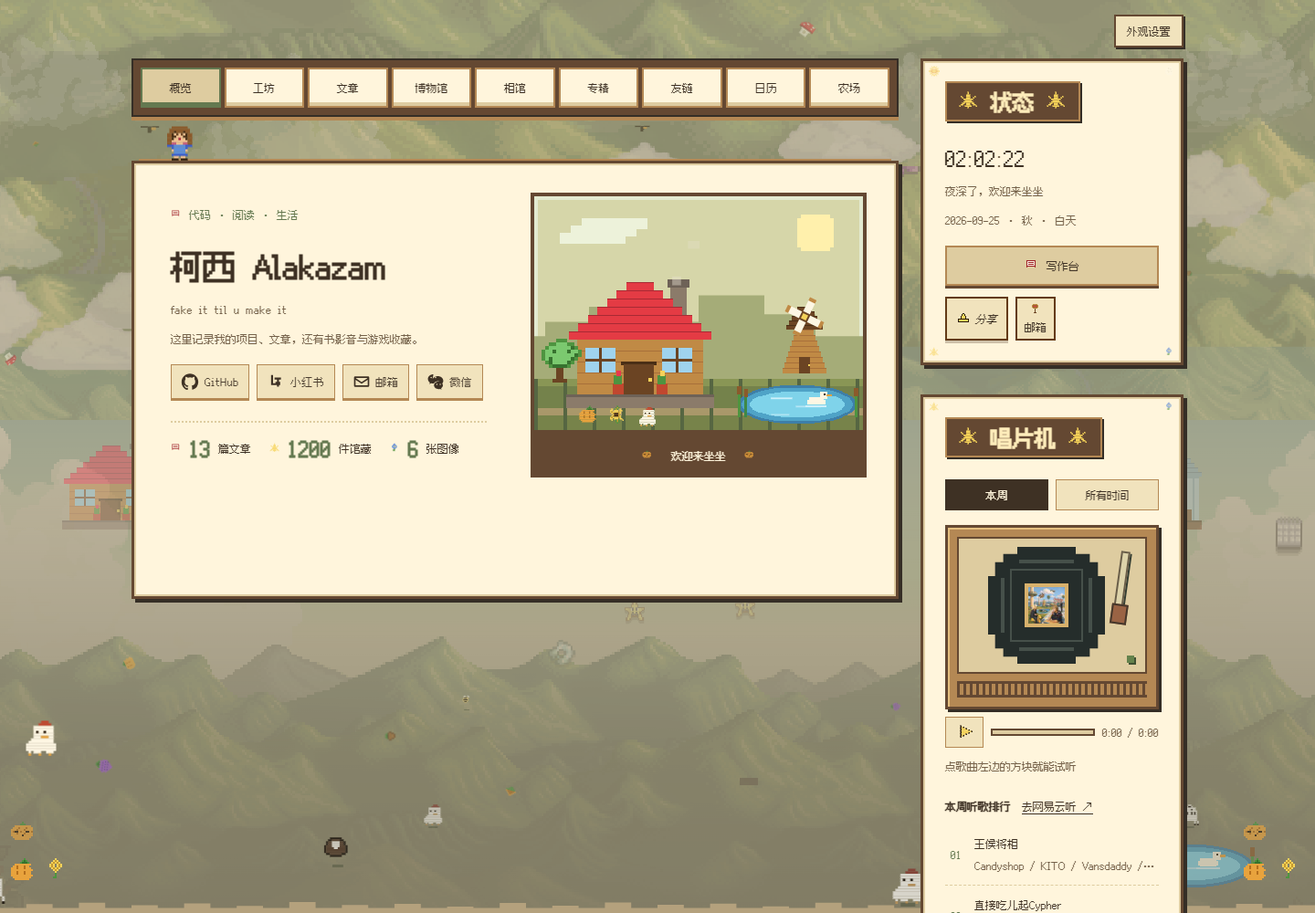
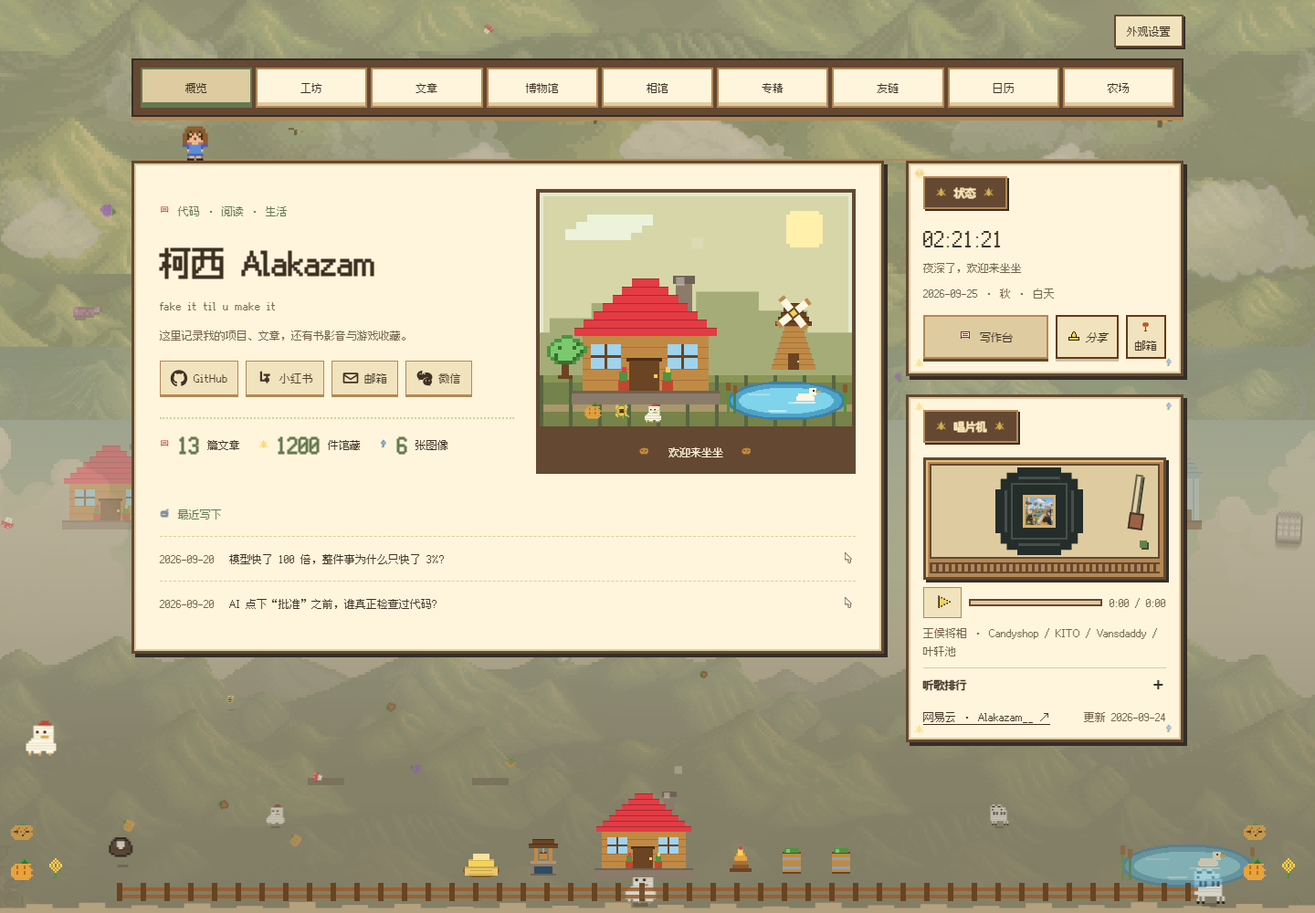
配平主页排版，将农场变为自动年度收获并收起完整听歌排行

diff --git a/build/music.js b/build/music.js
@@ -10,45 +10,54 @@ const labels = { week: '本周', all: '所有时间' };
      免登录、免密钥、不含糊 —— 浏览器自己跟随 302 到 126 的 CDN。缺点是
      受版权限制的部分歌曲取不到音频，这时按失败处理，落到网易云的页面去。） */
 function rows(tracks) {
-  return tracks.map(track => `<li class="music-row"><button type="button" class="music-play" data-music-play="${esc(track.id)}" aria-label="试听 ${esc(track.title)}"><span class="music-rank">${track.rank.toString().padStart(2, '0')}</span><svg class="ic music-ic music-ic-play" viewBox="0 0 16 16" aria-hidden="true"><use href="#px-play"></use></svg><svg class="ic music-ic music-ic-pause" viewBox="0 0 16 16" aria-hidden="true"><use href="#px-pause"></use></svg></button><a href="${esc(track.url)}" target="_blank" rel="noopener noreferrer"><span class="music-track"><b>${esc(track.title)}</b><small>${esc(track.artist)}</small></span></a></li>`).join('');
+  return tracks.map(track => `<li class="music-row"><button type="button" class="music-play" data-music-play="${esc(track.id)}" aria-label="试听 ${esc(track.title)}"><span class="music-rank">${track.rank.toString().padStart(2, '0')}</span><svg class="ic music-ic music-ic-play" viewBox="0 0 16 16" aria-hidden="true"><use href="#px-play"></use></svg><svg class="ic music-ic music-ic-pause" viewBox="0 0 16 16" aria-hidden="true"><use href="#px-pause"></use></svg></button><a href="${esc(track.url)}" title="${esc(track.title + ' · ' + track.artist)}" target="_blank" rel="noopener noreferrer"><span class="music-track"><b>${esc(track.title)}</b><small>${esc(track.artist)}</small></span></a></li>`).join('');
 }
 
 function render() {
   const data = JSON.parse(fs.readFileSync(path.join(__dirname, 'data/netease.json'), 'utf8'));
   const first = data.week[0];
-  return `<div class="music-tabs" role="group" aria-label="音乐收藏与排行">${Object.entries(labels).map(([key, label]) => `<button type="button" data-music-period="${key}" aria-pressed="${key === 'week'}">${label}</button>`).join('')}</div>
-  <div class="record-player" aria-hidden="true"><div class="record-deck"><div class="record-disc"><img class="record-label" ${first ? 'src="' + esc(first.cover + '?param=96y96') + '"' : ''} width="48" height="48" alt="" referrerpolicy="no-referrer" ${first ? '' : 'hidden'}></div><i class="record-arm"></i><i class="record-light"></i></div><div class="record-speaker"></div></div>
+  return `<div class="record-player" aria-hidden="true"><div class="record-deck"><div class="record-disc"><img class="record-label" ${first ? 'src="' + esc(first.cover + '?param=96y96') + '"' : ''} width="36" height="36" alt="" referrerpolicy="no-referrer" ${first ? '' : 'hidden'}></div><i class="record-arm"></i><i class="record-light"></i></div><div class="record-speaker"></div></div>
   <div class="music-bar" role="group" aria-label="试听控制"><button type="button" class="music-transport" data-music-toggle aria-label="播放${first ? ' ' + esc(first.title) : ''}"><svg class="ic music-ic music-ic-play" viewBox="0 0 16 16" aria-hidden="true"><use href="#px-play"></use></svg><svg class="ic music-ic music-ic-pause" viewBox="0 0 16 16" aria-hidden="true"><use href="#px-pause"></use></svg></button><span class="music-seek" data-music-seek aria-hidden="true"><span class="music-seek-fill" data-music-fill></span></span><span class="music-time" data-music-time>0:00 / 0:00</span></div>
-  <p class="music-now" role="status" aria-live="polite">点歌曲左边的方块就能试听</p>
+  <p class="music-now" role="status" aria-live="polite">${first ? esc(first.title + ' · ' + first.artist) : '还没有听歌记录'}</p>
+  <details class="music-ranking"><summary>听歌排行<span aria-hidden="true">＋</span></summary>
+  <div class="music-tabs" role="group" aria-label="音乐收藏与排行">${Object.entries(labels).map(([key, label]) => `<button type="button" data-music-period="${key}" aria-pressed="${key === 'week'}">${label}</button>`).join('')}</div>
   <p class="music-selection"><span data-music-heading>本周听歌排行</span><a class="music-listen" href="${first ? esc(first.url) : 'https://music.163.com/#/user/home?id=' + data.uid}" target="_blank" rel="noopener noreferrer">去网易云听 ↗</a></p>
   <ol class="music-list">${rows(data.week.slice(0, 5))}</ol><p class="music-empty" ${data.week.length ? 'hidden' : ''}>这段时间还没有听歌记录。</p>
-  <div class="music-pager"><button type="button" data-music-prev aria-label="上一页听歌排行" disabled>上一页</button><span data-music-page role="status" aria-live="polite">${data.week.length ? '1–' + Math.min(5, data.week.length) : '0'} / ${data.week.length}</span><button type="button" data-music-next aria-label="下一页听歌排行" ${data.week.length <= 5 ? 'disabled' : ''}>下一页</button></div>
+  <div class="music-pager"><button type="button" data-music-prev aria-label="上一页听歌排行" disabled>上一页</button><span data-music-page role="status" aria-live="polite">${data.week.length ? '1–' + Math.min(5, data.week.length) : '0'} / ${data.week.length}</span><button type="button" data-music-next aria-label="下一页听歌排行" ${data.week.length <= 5 ? 'disabled' : ''}>下一页</button></div></details>
   <p class="music-source"><a href="https://music.163.com/#/user/home?id=${data.uid}" target="_blank" rel="noopener noreferrer">网易云 · Alakazam__ ↗</a><span>更新 <time data-music-updated datetime="${esc(data.updatedAt)}">${esc(data.updatedAt.slice(0, 10))}</time></span></p>
   <script id="music-data" type="application/json">${safeJSON(data)}</script>`;
 }
 
 const css = `
-#music{scroll-margin-top:24px;font-size:12px;line-height:24px}
-.music-tabs{display:grid;grid-template-columns:repeat(auto-fit,minmax(64px,1fr));gap:8px;margin-bottom:16px}
-#music button:not([data-music-play]){font:inherit;line-height:24px;color:var(--ink);background:var(--cream-2);border:1px solid var(--timber-light);padding:4px 8px}
+#music{scroll-margin-top:24px;font-size:12px;line-height:20px}
+.music-tabs{display:grid;grid-template-columns:repeat(auto-fit,minmax(64px,1fr));gap:8px;margin:8px 0}
+#music button:not([data-music-play]){font:inherit;line-height:20px;color:var(--ink);background:var(--cream-2);border:1px solid var(--timber-light);padding:4px 8px}
 #music button[aria-pressed="true"]{background:var(--ink);color:var(--cream);border-color:var(--ink)}
 #music button:disabled{opacity:.4;cursor:default}#music button:active:not(:disabled){transform:translateY(2px)}
 #music a:focus-visible,#music button:focus-visible{outline:2px solid var(--moss);outline-offset:3px}
-.record-player{padding:10px;background:var(--timber-light);border:3px solid var(--timber);box-shadow:inset 2px 2px var(--timber-top),3px 3px var(--pixel-shadow)}
-.record-deck{height:150px;position:relative;background:var(--cream-3);border:2px solid var(--timber)}
-.record-disc{position:absolute;left:calc(50% - 70px);top:9px;width:128px;height:128px;background:#252d2b;clip-path:polygon(25% 0,75% 0,75% 6%,87% 6%,87% 13%,94% 13%,94% 25%,100% 25%,100% 75%,94% 75%,94% 87%,87% 87%,87% 94%,75% 94%,75% 100%,25% 100%,25% 94%,13% 94%,13% 87%,6% 87%,6% 75%,0 75%,0 25%,6% 25%,6% 13%,13% 13%,13% 6%,25% 6%)}
-.record-disc::before{content:'';position:absolute;inset:14px;border:4px solid #46504a;box-shadow:inset 0 0 0 6px #252d2b,inset 0 0 0 8px #46504a;clip-path:polygon(20% 0,80% 0,80% 8%,92% 8%,92% 20%,100% 20%,100% 80%,92% 80%,92% 92%,80% 92%,80% 100%,20% 100%,20% 92%,8% 92%,8% 80%,0 80%,0 20%,8% 20%,8% 8%,20% 8%)}
-.record-label{position:absolute;left:40px;top:40px;width:48px;height:48px;object-fit:contain;border:4px solid #d8b16c;image-rendering:auto}
-.record-arm{position:absolute;right:16px;top:14px;width:10px;height:74px;background:#ddd3aa;border:2px solid #695d48;transform:rotate(8deg);transform-origin:top center;box-shadow:2px 2px #333c31;transition:transform .6s steps(5,end)}
-.record-arm::after{content:'';position:absolute;bottom:-8px;left:-4px;width:14px;height:18px;background:#9a6344;border:2px solid #45372b}
+.record-player{padding:4px;background:var(--timber-light);border:3px solid var(--timber);box-shadow:inset 2px 2px var(--timber-top),3px 3px var(--pixel-shadow)}
+.record-deck{height:104px;position:relative;background:var(--cream-3);border:2px solid var(--timber)}
+.record-disc{position:absolute;left:calc(50% - 54px);top:2px;width:96px;height:96px;background:#252d2b;clip-path:polygon(25% 0,75% 0,75% 6%,87% 6%,87% 13%,94% 13%,94% 25%,100% 25%,100% 75%,94% 75%,94% 87%,87% 87%,87% 94%,75% 94%,75% 100%,25% 100%,25% 94%,13% 94%,13% 87%,6% 87%,6% 75%,0 75%,0 25%,6% 25%,6% 13%,13% 13%,13% 6%,25% 6%)}
+.record-disc::before{content:'';position:absolute;inset:10px;border:3px solid #46504a;box-shadow:inset 0 0 0 4px #252d2b,inset 0 0 0 6px #46504a;clip-path:polygon(20% 0,80% 0,80% 8%,92% 8%,92% 20%,100% 20%,100% 80%,92% 80%,92% 92%,80% 92%,80% 100%,20% 100%,20% 92%,8% 92%,8% 80%,0 80%,0 20%,8% 20%,8% 8%,20% 8%)}
+.record-label{position:absolute;left:30px;top:30px;width:36px;height:36px;object-fit:contain;border:3px solid #d8b16c;image-rendering:auto}
+.record-arm{position:absolute;right:16px;top:10px;width:8px;height:56px;background:#ddd3aa;border:2px solid #695d48;transform:rotate(8deg);transform-origin:top center;box-shadow:2px 2px #333c31;transition:transform .6s steps(5,end)}
+.record-arm::after{content:'';position:absolute;bottom:-6px;left:-3px;width:12px;height:14px;background:#9a6344;border:2px solid #45372b}
 .record-light{position:absolute;right:12px;bottom:10px;width:8px;height:8px;background:#64824c;box-shadow:2px 2px #3e5032}
 html[data-time="night"] .record-light{background:#efca6a;box-shadow:0 0 8px #efca6a}
-.record-speaker{height:18px;margin-top:8px;background:repeating-linear-gradient(90deg,var(--timber) 0 3px,transparent 3px 7px);border-top:3px solid var(--timber);border-bottom:3px solid var(--timber)}
-.music-selection{margin:20px 0 8px;display:flex;flex-wrap:wrap;align-items:center;gap:4px 12px}.music-selection>span{font-weight:bold}.music-listen{color:var(--ink);font-size:12px;text-underline-offset:3px}
+.record-speaker{height:12px;margin-top:4px;background:repeating-linear-gradient(90deg,var(--timber) 0 3px,transparent 3px 7px);border-top:2px solid var(--timber);border-bottom:2px solid var(--timber)}
+.music-ranking{margin-top:8px;border-top:1px solid var(--cream-3)}
+.music-ranking>summary{display:flex;align-items:center;justify-content:space-between;gap:8px;padding:8px 0;list-style:none;color:var(--ink);font-weight:bold}
+.music-ranking>summary::-webkit-details-marker{display:none}
+.music-ranking>summary span{font-size:16px;line-height:16px;transition:transform .18s ease}
+.music-ranking[open]>summary span{transform:rotate(45deg)}
+.music-ranking>summary:hover{color:var(--moss)}.music-ranking>summary:active{transform:translateY(1px)}
+.music-ranking>summary:focus-visible{outline:2px solid var(--moss);outline-offset:3px}
+@media(prefers-reduced-motion:reduce){.music-ranking>summary span{transition:none}}
+.music-selection{margin:8px 0 4px;display:flex;flex-wrap:wrap;align-items:center;justify-content:space-between;gap:4px 8px}.music-selection>span{font-weight:bold}.music-listen{color:var(--ink);font-size:12px;text-underline-offset:3px}
 .music-list{list-style:none;padding:0;margin:0}.music-row{display:grid;grid-template-columns:24px minmax(0,1fr);gap:8px;align-items:center;border-bottom:1px dashed var(--cream-3)}
 .music-row:hover{background:var(--cream-2)}
-.music-row a{display:block;padding:9px 0;text-decoration:none;color:var(--ink)}
-.music-rank{color:var(--moss)}.music-track{min-width:0}.music-track b{display:block;white-space:nowrap;overflow:hidden;text-overflow:ellipsis;font-weight:normal}.music-track small{display:block;font-size:12px;line-height:24px;color:var(--ink-2);white-space:nowrap;overflow:hidden;text-overflow:ellipsis}
+.music-row a{display:block;min-width:0;padding:8px 0;text-decoration:none;color:var(--ink)}
+.music-rank{color:var(--moss)}.music-track{display:grid;grid-template-columns:minmax(0,1fr) minmax(0,.65fr);gap:8px;min-width:0}.music-track b{display:block;white-space:nowrap;overflow:hidden;text-overflow:ellipsis;font-weight:normal}.music-track small{display:block;font-size:12px;line-height:20px;color:var(--ink-2);text-align:right;white-space:nowrap;overflow:hidden;text-overflow:ellipsis}
 /* ---- 序号格 = 试听键 ----
    ⚠⚠ 上面那条木牌按钮用 :not([data-music-play]) 排除了它 —— 但排除之后
    **浏览器默认的按钮样式**（灰底、2px outset 黑边、13.33px 字号）会顶上来，
@@ -85,9 +94,9 @@ html[data-time="night"] .record-light{background:#efca6a;box-shadow:0 0 8px #efc
 .record-deck.playing .record-arm{transform:rotate(25deg)}
 @keyframes mu-blink{50%{opacity:.15}}
 .record-deck.playing .record-light{animation:mu-blink 1s steps(2,end) infinite}
-.music-now{margin:8px 0 0;color:var(--ink-2)}
-.music-pager{display:flex;align-items:center;justify-content:space-between;gap:4px;margin-top:16px}.music-pager [data-music-page]{white-space:nowrap;font-variant-numeric:tabular-nums}
-.music-source{display:flex;flex-direction:column;gap:4px;margin:16px 0 0;color:var(--ink-2)}.music-source a{color:var(--ink);text-underline-offset:3px}.music-empty{margin:20px 0;color:var(--ink-2)}
+.music-now{margin:6px 0 0;color:var(--ink-2);line-height:20px}
+.music-pager{display:flex;align-items:center;justify-content:space-between;gap:4px;margin:8px 0}.music-pager [data-music-page]{white-space:nowrap;font-variant-numeric:tabular-nums}
+.music-source{display:flex;flex-wrap:wrap;justify-content:space-between;gap:2px 8px;margin:8px 0 0;color:var(--ink-2);line-height:18px}.music-source a{color:var(--ink);text-underline-offset:3px}.music-source>span{white-space:nowrap}.music-empty{margin:12px 0;color:var(--ink-2)}
 #music [hidden]{display:none!important}
 `;
 
@@ -133,7 +142,7 @@ function paint(){
   cover.src=currentTrack.cover+'?param=96y96';cover.hidden=false;
   now.textContent=(mode==='playing'?'正在放 · ':'暂停 · ')+currentTrack.title+' — '+currentTrack.artist;
  }else if(mode==='failed'){ now.textContent='这首没有在线音源，去网易云听 ↗'; }
- else{ now.textContent='点歌曲左边的方块就能试听'; }
+ else{ const first=data[period][page*5];now.textContent=first?first.title+' · '+first.artist:'还没有听歌记录'; }
 }
 function stop(){ audio.pause(); try{audio.removeAttribute('src');audio.load();}catch(e){} currentId=null;currentTrack=null;mode='';paint(); }
 function fail(){ if(mode==='loading'||mode==='playing'||mode==='paused'){mode='failed';paint();} }

diff --git a/build/farm-modules.js b/build/farm-modules.js
@@ -25,7 +25,18 @@ function collect(articles,gallery,douban){
 }
 function load(){const read=n=>{try{return JSON.parse(fs.readFileSync(path.join(__dirname,'data',n),'utf8'))}catch{return {}}};return collect(require('./content.js').articles(),read('gallery.json'),read('douban.json'));}
 function calendar(){return `<div class="calendar-date"><time id="calendar-date"></time><span id="calendar-weekday"></span></div><div class="seasons">${[['spring','parsnip','春'],['summer','melon','夏'],['autumn','pumpkin','秋'],['winter','snowman','冬']].map(([k,n,label])=>`<button type="button" class="se" data-se="${k}" data-set-season="${k}" aria-label="切换${label}季外观" aria-pressed="false">${icon(n)}<b>${label}</b></button>`).join('')}</div><p class="calendar-mode" id="calendar-mode"></p><button class="abtn calendar-auto" type="button" data-auto-season>恢复自动</button>`;}
-function harvest(data){return `<div class="harvest-heading"><label for="harvest-year">年度收获</label><select id="harvest-year" aria-label="收获年份"></select></div><div class="harvest-counts">${Object.entries(labels).map(([k,v])=>`<a data-harvest-kind="${k}" href="harvest/index.html?kind=${k}"><span>${icon(KIND_ICON[k])}${v}</span><b>0</b></a>`).join('')}</div><p class="harvest-note">随已发布内容更新${data.updatedAt?' · 书影音同步 '+esc(data.updatedAt.slice(0,10)):''}</p><script id="harvest-summary" type="application/json">${safeJSON(data.years)}</script>`;}
+function harvest(data){
+ const crops={article:'wheat',photo:'flower',movie:'film',book:'book'},units={article:'篇',photo:'张',movie:'部',book:'本'};
+ const recent=Object.keys(data.years).sort().reverse().map(year=>`<ul class="farm-recent-list" data-harvest-year="${year}" hidden>${data.items.filter(item=>item.year===year).slice(0,3).map(item=>`<li><span class="farm-recent-kind">${icon(KIND_ICON[item.kind])}${labels[item.kind]}</span><a href="${esc(item.url)}"${/^https:\/\//.test(item.url)?' target="_blank" rel="noopener"':''}>${esc(item.title)}</a><time datetime="${item.date}">${item.date.slice(5).replace('-',' / ')}</time></li>`).join('')}</ul>`).join('');
+ return `<div id="ledger" class="farm-harvest">
+  <p class="farm-harvest-intro">文章、真实照片和看完读完的书影会自动汇入这里，不用另外维护。</p>
+  <div class="harvest-heading"><label for="harvest-year">年度收获</label><select id="harvest-year" aria-label="收获年份"></select></div>
+  <div class="harvest-counts">${Object.entries(labels).map(([kind,label])=>`<a class="farm-plot" data-harvest-kind="${kind}" data-empty="true" href="harvest/index.html?kind=${kind}"><span class="farm-plot-label">${label}</span><span class="farm-plot-crop" aria-hidden="true">${icon(crops[kind])}</span><span class="farm-plot-total"><b>0</b><span>${units[kind]}</span></span><span class="farm-plot-note">暂无记录</span></a>`).join('')}</div>
+  <div class="farm-recent"><div class="farm-recent-heading"><h3>最近的收获</h3><a data-harvest-all href="harvest/index.html">查看这一年</a></div>${recent}<p class="farm-recent-empty">这一年还没有记录，新的生活片段会出现在这里。</p></div>
+  <p class="harvest-note">照片不含生成插画；书影按豆瓣标记日期归档。${data.updatedAt?'最近同步 '+esc(data.updatedAt.slice(0,10))+'。':''}</p>
+  <script id="harvest-summary" type="application/json">${safeJSON(data.years)}</script>
+ </div>`;
+}
 function scenery(){return `<div class="farm-edge-area"><div class="season-scenery" aria-hidden="true">${['left','right'].map(side=>`<div class="edge-plot ${side}"><span class="edge-lantern">${icon('lantern')}</span><span class="season-plants spring">${icon('tulip')}${icon('flower')}</span><span class="season-plants summer">${icon('sunflower')}${icon('melon')}</span><span class="season-plants autumn">${icon('pumpkin')}${icon('wheat')}</span><span class="season-plants winter">${icon('snowman')}<i class="snow-cap"></i></span></div>`).join('')}</div><div class="farm-pet"><button id="farm-pet" type="button" aria-label="摸摸小鸡">${icon('chicken')}</button><span class="pet-reply" role="status" aria-live="polite"></span></div></div>`;}
 function settings(){return `<label class="farm-option"><input type="checkbox" data-farm-option="pet" checked>农场小鸡</label><label class="farm-option"><input type="checkbox" data-farm-option="scenery" checked>季节景物</label>`;}
 const css=`
@@ -52,6 +63,23 @@ const css=`
 .harvest-list a svg.ic{display:inline-block;vertical-align:-4px;margin-right:5px}
 .harvest-list small{display:block;font-size:12px;line-height:24px;color:var(--tx-3)}
 .harvest-list [hidden],.harvest-empty[hidden]{display:none!important}
+.farm-harvest-intro{margin:0 0 24px;color:var(--ink-2);max-width:52em}
+.farm-harvest .harvest-heading{padding-bottom:12px;border-bottom:2px solid var(--cream-3);margin-bottom:20px}
+.farm-harvest .harvest-heading label{font-size:24px;line-height:32px}.farm-harvest .harvest-heading select{padding:4px 8px}
+.farm-harvest .harvest-counts{display:grid;grid-template-columns:repeat(4,minmax(0,1fr));gap:12px}
+.farm-harvest .farm-plot{display:flex;flex-direction:column;align-items:stretch;gap:8px;padding:16px 12px 12px;min-width:0;border:1px solid var(--timber-light);background:var(--cream-2);text-decoration:none;color:var(--ink);transition:background .2s ease,border-color .2s ease}
+.farm-harvest .farm-plot:hover{background:var(--cream);border-color:var(--moss)}.farm-harvest .farm-plot:focus-visible{outline:2px solid var(--moss);outline-offset:4px}
+.farm-harvest .farm-plot-label{display:block;font-size:12px;line-height:24px}
+.farm-harvest .farm-plot-crop{position:relative;display:flex;align-items:flex-end;justify-content:center;height:64px;padding-bottom:12px}
+.farm-harvest .farm-plot-crop::after{content:'';position:absolute;bottom:0;left:0;right:0;height:12px;background:repeating-linear-gradient(0deg,var(--timber-light) 0 4px,var(--timber) 4px 8px);box-shadow:0 -4px 0 var(--cream-3)}
+.farm-harvest .farm-plot-crop .ic{width:36px;height:36px;z-index:1}.farm-harvest .farm-plot[data-empty="true"] .farm-plot-crop .ic{visibility:hidden}
+.farm-harvest .farm-plot-total{display:flex;align-items:baseline;gap:8px}.farm-harvest .farm-plot-total b{font-size:24px;line-height:32px;color:var(--tx-num);font-variant-numeric:tabular-nums}
+.farm-harvest .farm-plot-total span,.farm-harvest .farm-plot-note{font-size:12px;line-height:24px;color:var(--ink-2)}
+.farm-recent{margin-top:28px}.farm-recent-heading{display:flex;align-items:baseline;justify-content:space-between;gap:12px;margin-bottom:8px}.farm-recent-heading h3{margin:0;font-size:12px;line-height:24px}.farm-recent-heading a{color:var(--ink-2);text-underline-offset:4px;white-space:nowrap}
+.farm-recent-list{list-style:none;padding:0;margin:0}.farm-recent-list li{display:grid;grid-template-columns:76px minmax(0,1fr) auto;align-items:start;gap:12px;padding:12px 0;border-bottom:1px solid var(--cream-3)}
+.farm-recent-list a{color:var(--ink);text-decoration:none;line-height:24px;overflow-wrap:anywhere}.farm-recent-list a:hover{text-decoration:underline;text-underline-offset:4px}
+.farm-recent-kind{display:flex;align-items:center;gap:8px;color:var(--ink-2)}.farm-recent-kind .ic{width:24px;height:24px;flex:none}.farm-recent-list time{color:var(--ink-2);white-space:nowrap;font-variant-numeric:tabular-nums}
+.farm-recent-empty{margin:0;padding:16px 0;color:var(--ink-2)}.farm-harvest [hidden]{display:none!important}
 .farm-option{display:flex;align-items:center;gap:8px;font-size:12px;line-height:24px;min-height:36px}.farm-option input{width:16px;height:16px;accent-color:var(--wood-c)}
 .farm-edge-area{height:110px;position:relative;margin:24px 0 0}.edge-plot{position:absolute;bottom:0;display:flex;align-items:flex-end;gap:8px;pointer-events:none}.edge-plot.left{left:6px}.edge-plot.right{right:6px}
 .edge-plot .ic{width:32px;height:32px}.edge-lantern{display:block;align-self:flex-start;margin-bottom:28px;opacity:.65}
@@ -64,13 +92,18 @@ html[data-season="spring"] .season-plants.spring,html[data-season="summer"] .sea
 .farm-pet button:active{transform:translateY(3px)}.farm-pet button:focus-visible{outline:2px solid var(--wood-c);outline-offset:2px}
 html[data-farm-pet="off"] .farm-pet,html[data-farm-scenery="off"] .season-scenery{display:none}
 @media(min-width:1400px){.farm-edge-area{height:0;margin:0}.edge-plot{position:fixed;bottom:30px;z-index:3;width:70px;flex-wrap:wrap;gap:0}.edge-plot.left{left:10px}.edge-plot.right{right:10px}.edge-lantern{margin-bottom:8px}.farm-pet{position:fixed;left:15px;bottom:140px;z-index:3}}
-@media(max-width:600px){.edge-plot .ic{width:24px;height:24px}.edge-plot{gap:0}.edge-plot.right .edge-lantern{display:none}.harvest-heading{flex-wrap:wrap}}
-@media(prefers-reduced-motion:reduce){.farm-pet button{transition:none;animation:none}}
+@media(max-width:600px){.edge-plot .ic{width:24px;height:24px}.edge-plot{gap:0}.edge-plot.right .edge-lantern{display:none}.harvest-heading{flex-wrap:wrap}.farm-harvest .harvest-counts{grid-template-columns:repeat(2,minmax(0,1fr))}.farm-recent-list li{grid-template-columns:minmax(0,1fr) auto;gap:4px 12px}.farm-recent-kind{grid-column:1}.farm-recent-list a{grid-column:1;grid-row:2}.farm-recent-list time{grid-column:2;grid-row:2}}
+@media(prefers-reduced-motion:reduce){.farm-pet button,.farm-harvest .farm-plot{transition:none;animation:none}}
 `;
 const homeScript=`(function(){
  var root=document.documentElement,years=JSON.parse(document.getElementById('harvest-summary').textContent),select=document.getElementById('harvest-year');
  var current=String(new Date().getFullYear());Array.from(new Set([current].concat(Object.keys(years)))).sort().reverse().forEach(function(y){var o=document.createElement('option');o.value=y;o.textContent=y+' 年';select.appendChild(o)});select.value=current;
- function show(){var counts=years[select.value]||{};document.querySelectorAll('[data-harvest-kind]').forEach(function(a){var k=a.dataset.harvestKind;a.querySelector('b').textContent=counts[k]||0;a.href='harvest/index.html?year='+select.value+'&kind='+k;});}select.addEventListener('change',show);show();
+ function show(){
+  var counts=years[select.value]||{};
+  document.querySelectorAll('[data-harvest-kind]').forEach(function(a){var k=a.dataset.harvestKind,count=counts[k]||0;a.querySelector('b').textContent=count;a.href='harvest/index.html?year='+select.value+'&kind='+k;a.dataset.empty=String(count===0);a.querySelector('.farm-plot-note').textContent=count?'查看记录':'暂无记录';});
+  document.querySelectorAll('[data-harvest-year]').forEach(function(list){list.hidden=list.dataset.harvestYear!==select.value;});
+  document.querySelector('.farm-recent-empty').hidden=!!years[select.value];document.querySelector('[data-harvest-all]').href='harvest/index.html?year='+select.value+'&kind=all';
+ }select.addEventListener('change',show);show();
  document.querySelectorAll('[data-farm-option]').forEach(function(input){var key=input.dataset.farmOption;try{input.checked=localStorage.getItem('kx-farm-'+key)!=='off'}catch(e){}function apply(){root.setAttribute('data-farm-'+key,input.checked?'on':'off');}apply();input.addEventListener('change',function(){apply();try{localStorage.setItem('kx-farm-'+key,input.checked?'on':'off')}catch(e){}});});
  var pet=document.getElementById('farm-pet'),reply=document.querySelector('.pet-reply'),n=0,timer;pet.addEventListener('click',function(){var messages=root.dataset.time==='night'?['啾…晚安','小声一点','陪你看星星']:['啾啾！','摸摸头','今天也加油'];reply.textContent=messages[n++%messages.length];clearTimeout(timer);timer=setTimeout(function(){reply.textContent=''},4000);});
 })();`;

diff --git a/build/pixel-art.js b/build/pixel-art.js
@@ -1,6 +1,7 @@
 // Shared visual treatment: pixel timber, paper, and a small farm diorama.
 // Existing farm artwork and the current content model stay in use.
-function hero(scene, social, counts, icon) {
+const { esc } = require('./md.js');
+function hero(scene, social, counts, icon, recent = []) {
   return `<header class="board pixel-entry" id="board">
     <div class="entry-copy">
       <p class="entry-label">${icon('book', 'sm')}代码 · 阅读 · 生活</p>
@@ -15,6 +16,7 @@ function hero(scene, social, counts, icon) {
       </nav>
     </div>
     <div class="entry-view">${scene}<p class="entry-caption">${icon('lantern', 'sm')}欢迎来坐坐${icon('lantern', 'sm')}</p></div>
+    ${recent.length ? `<nav class="entry-latest" aria-label="最近文章"><p>${icon('wateringcan', 'sm')}最近写下</p>${recent.map(a => `<a href="posts/${esc(a.slug)}.html"><time>${esc(a.date)}</time><span>${esc(a.title)}</span>${icon('arrow', 'sm')}</a>`).join('')}</nav>` : ''}
   </header>`;
 }
 
@@ -37,10 +39,10 @@ html[data-time="night"] .asset-bg::after{background:#162b2d;opacity:.82}
 .appearance-settings{max-width:1200px;padding:0 24px;margin:16px auto 12px}
 .appearance-settings>summary{border:2px solid var(--timber);box-shadow:2px 2px 0 var(--pixel-shadow);background:var(--cream-2)}
 .bunting{display:none}
-.board.pixel-entry{max-width:none;margin:0;display:grid;grid-template-columns:minmax(0,1fr) 384px;gap:24px;
+.board.pixel-entry{max-width:none;margin:0;display:grid;grid-template-columns:minmax(0,1fr) minmax(240px,.9fr);gap:24px;
   padding:12px;border:4px solid var(--timber);background:var(--cream);text-align:left;
   box-shadow:inset 0 0 0 2px var(--timber-top),4px 4px 0 var(--pixel-shadow),0 8px 0 var(--timber-light)}
-.entry-copy{padding:20px 16px 12px;min-width:0}
+.entry-copy{padding:12px 0;min-width:0}
 .entry-label{display:flex;align-items:center;gap:8px;margin:0 0 20px;color:var(--moss);font-size:12px;line-height:24px}
 .board.pixel-entry .bn{justify-content:flex-start;margin:0 0 16px}
 .board.pixel-entry .bt{font-size:36px;line-height:48px;color:var(--ink);text-shadow:none;letter-spacing:0}
@@ -53,7 +55,11 @@ html[data-time="night"] .asset-bg::after{background:#162b2d;opacity:.82}
 .entry-counts a{display:flex;align-items:center;gap:8px;color:var(--ink);text-decoration:none;font-size:12px;line-height:24px}
 .entry-counts b{font-size:24px;line-height:24px;color:var(--moss)}
 .entry-counts a:hover span{text-decoration:underline;text-underline-offset:4px}
-.entry-view{display:flex;flex-direction:column;justify-content:center;min-width:0;padding:8px}
+.entry-view{display:flex;flex-direction:column;justify-content:center;min-width:0;padding:0}
+.entry-latest{grid-column:1/-1;margin-top:8px}
+.entry-latest p{display:flex;align-items:center;gap:8px;color:var(--moss);margin:0 0 12px;font-size:12px;line-height:24px}
+.entry-latest a{display:flex;align-items:baseline;gap:16px;padding:12px 0;border-top:1px dashed var(--cream-3);color:var(--ink);text-decoration:none;font-size:12px;line-height:24px}
+.entry-latest time{flex:none;color:var(--ink-2)}.entry-latest a span{flex:1;min-width:0}.entry-latest a:hover span{text-decoration:underline;text-underline-offset:4px}
 .entry-caption{display:flex;justify-content:center;align-items:center;gap:20px;margin:0;padding:12px;color:var(--cream);background:var(--timber);font-size:12px;line-height:24px}
 html[data-time="night"] .entry-caption{color:var(--ink)}
 .pixel-window{position:relative;height:264px;overflow:hidden;background:#b8d4cc;border:4px solid var(--timber);box-shadow:inset 0 0 0 4px #e3ead0;isolation:isolate}
@@ -81,7 +87,8 @@ html[data-time="night"] .pixel-window>svg{filter:brightness(.78) saturate(.8)}
      · 状态栏不写容器规则（默认 block），间距靠 .panel 自带的 margin-bottom；
      · 日期行复用 .greet 的类，不单开一条；
      · 激活态不用 ::after（背景 + 内阴影已经够读）。 */
-.dash{position:relative;display:grid;grid-template-columns:minmax(0,1fr) 288px;gap:var(--s6);align-items:start}
+.dash{position:relative;display:grid;grid-template-columns:minmax(0,1fr) 304px;gap:0 var(--s6);align-items:start}
+.dash-head{grid-column:1/-1;min-width:0}
 .dash-tabs{display:flex;gap:4px;padding:8px;background:var(--timber);border:2px solid var(--pixel-shadow);box-shadow:0 4px 0 var(--timber-light)}
 .dash-tab{flex:1;min-width:0;height:44px;display:flex;align-items:center;justify-content:center;background:var(--cream);border:2px solid var(--timber-light);box-shadow:inset 0 -4px 0 var(--cream-3);color:var(--ink);font:inherit;font-size:12px;line-height:24px;text-decoration:none;white-space:nowrap;overflow:hidden;text-overflow:ellipsis;transition:background .18s ease,color .18s ease,transform .16s ease-out,box-shadow .16s ease-out}
 .dash-tab[aria-selected="true"]{background:var(--cream-3);color:var(--ink);box-shadow:inset 0 -4px 0 var(--moss);border-color:var(--moss)}
@@ -90,15 +97,18 @@ html[data-time="night"] .pixel-window>svg{filter:brightness(.78) saturate(.8)}
 .dash-walk{position:absolute;left:0;bottom:0;width:40px;height:40px;pointer-events:none;transform:translateX(var(--x,0));image-rendering:pixelated}
 .dash-walk .art{display:block;width:40px;height:40px;transform-origin:center bottom;animation:hop 280ms steps(2) infinite;animation-play-state:paused}
 .dash-walk.walking .art{animation-play-state:running}
-.dash-body{min-height:480px;padding:var(--s6);border:3px solid var(--timber);background:var(--cream);box-shadow:4px 4px 0 var(--pixel-shadow),inset 0 0 0 2px var(--cream-3)}
+.dash-body{min-width:0;padding:var(--s7);border:3px solid var(--timber);background:var(--cream);box-shadow:4px 4px 0 var(--pixel-shadow),inset 0 0 0 2px var(--cream-3)}
 .tabpane:not(.on){display:none}
 .tabpane.on{animation:px-pane-in .22s cubic-bezier(.22,1,.36,1) backwards}
 .tabpane>.panel,.tabpane>.board{border:0;box-shadow:none;margin-bottom:0;padding:0}
 .clock{font-size:24px;line-height:32px;color:var(--ink);font-variant-numeric:tabular-nums}
 .clock b{font-weight:normal;color:var(--ink-2)}
-.greet{min-height:24px;line-height:24px;margin:8px 0;color:var(--ink-2)}
-.side-acts{display:flex;flex-wrap:wrap;gap:8px;margin-top:16px}
-.side-acts .abtn{display:flex;align-items:center;justify-content:center;gap:8px;flex-basis:100%;background:var(--cream-3);color:var(--ink);text-decoration:none;margin-bottom:4px}
+.greet{min-height:24px;line-height:24px;margin:4px 0;color:var(--ink-2)}
+.side-acts{display:flex;align-items:stretch;gap:8px;margin-top:12px}
+.side-acts .abtn{display:flex;align-items:center;justify-content:center;gap:8px;flex:1;background:var(--cream-3);color:var(--ink);text-decoration:none;margin:0;padding:8px}
+.dash-side .panel{padding:16px;margin-bottom:20px}.dash-side .panel:last-child{margin-bottom:0}
+body:not(.is-article) .dash-side .panel>.pt{font-size:12px;line-height:24px;gap:8px;margin-bottom:16px}
+body:not(.is-article) .dash-side .panel>.pt>.ic{width:12px;height:12px}
 @keyframes hop{0%,100%{transform:translateY(0)}50%{transform:translateY(-2px)}}
 @keyframes px-pane-in{from{opacity:.35;transform:translateY(6px)}to{opacity:1;transform:none}}
 /* 首屏的双栏容器（.layout）已换成仪表盘 **.dash**（规则见上方 "首屏仪表盘" 一节）：
@@ -131,9 +141,6 @@ body:not(.is-article) .panel>.pt>.ic{width:24px;height:24px}
 #calendar .se{min-height:58px;border:1px solid var(--timber-light);background:var(--cream-2);gap:8px}
 #calendar .se .ic{width:24px;height:24px}#calendar .se.on{outline:2px solid var(--moss);outline-offset:2px;background:var(--cream-3);color:var(--ink)}
 .calendar-auto{background:var(--cream-2);color:var(--ink);border:1px solid var(--timber-light)}
-.harvest-counts{display:grid;grid-template-columns:repeat(2,minmax(0,1fr));gap:12px}
-.harvest-counts a{display:flex;flex-direction:column;align-items:flex-start;padding:12px;border:1px solid var(--timber-light);background:var(--cream-2);gap:12px}
-.harvest-counts a b{color:var(--moss)}.harvest-counts a:hover{background:var(--cream-3)}
 .museum-zone-title{margin:8px 0 16px;gap:12px;line-height:24px}.shelf-tabs{gap:8px;margin-bottom:20px}
 .shelf-tab,.museum-filter{padding:8px 12px;border:1px solid var(--timber-light);box-shadow:0 2px var(--cream-3)}
 .shelf{padding-bottom:20px}.shelf-status,.gfoot{line-height:24px}.exc .t{line-height:24px;height:48px}

diff --git a/build/gen.js b/build/gen.js
@@ -447,14 +447,8 @@ const friendsPanel = () => {
     `<div class="rgrid fgrid">${list.map(card).join('')}</div>` + DC.shelf(), 'friends');
 };
 
-const farmPanel = () => panel('农场一角', ['flower', 'flower', 'wheat', 'wheat', 'tree'], `
-  <div class="scene">
-    ${['tree', 'scarecrow', 'beehive', 'chicken', 'cow', 'lantern', 'junimo', 'fence',
-      'keg', 'cask', 'slime', 'wand', 'truffle']
-      .map((n, i) => `<span style="animation-delay:${(i * 0.24).toFixed(2)}s">${ic(n, 'lg')}</span>`).join('')}
-  </div>
-  <div class="fencerow">${ic('fence')}${ic('fence')}${ic('fence')}${ic('fence')}${ic('fence')}${ic('fence')}</div>` +
-    DC.shelf(), 'farm');
+const farmPanel = () => panel('收获农场', ['flower', 'flower', 'wheat', 'wheat', 'tree'],
+  FARM.harvest(FARM.load()) + DC.shelf(), 'farm');
 
 // ---------- 博物馆（豆瓣书影音） ----------
 //
@@ -549,7 +543,6 @@ const museum = () => {
   return panel('博物馆', ['book', 'gem', 'crystal', 'star', 'gift'], inner + DC.shelf(), 'museum');
 };
 
-const moneyPanel = () => panel('收获簿', ['basket', 'wheat', 'flower', 'book', 'star'], FARM.harvest(FARM.load()) + DC.shelf(), 'ledger');
 
 // ---------- 页脚 ----------
 const footer = () => `
@@ -1170,17 +1163,6 @@ html{scroll-behavior:smooth;scrollbar-width:thin;scrollbar-color:var(--wood-b) v
 .tbar b{display:block;height:100%}
 .stack u{text-decoration:none;font-size:12px;min-width:40px;text-align:right;font-variant-numeric:tabular-nums}
 
-.pgrid{display:grid;grid-template-columns:repeat(2,1fr);gap:10px}
-.pcard{display:flex;flex-direction:column;align-items:flex-start;gap:6px;padding:10px 9px;
-  background:var(--cream-2);border:3px solid var(--ink);box-shadow:0 0 0 2px var(--wood-c);
-  transition:transform .12s steps(2)}
-.pcard:hover{transform:translateY(-4px)}
-.pcard.gold{background:linear-gradient(180deg,#FFF1B8,#FFD98A)}
-.pcard.green{background:linear-gradient(180deg,#D6F5C0,#A8E08A)}
-.pcard.blue{background:linear-gradient(180deg,#CFEAFA,#9FCDEA)}
-.pcard.purple{background:linear-gradient(180deg,#E8D6FA,#C6A8EE)}
-.pcard-ic{filter:drop-shadow(0 3px 0 rgba(59,36,18,.3))}
-.pcard-foot{display:flex;gap:3px;margin-top:2px}
 
 /* ===== 相馆 ===== */
 /* 等高一条排：主页只做缩略陈列（高 96px = 12 的倍数，宽按原始比例），
@@ -1398,7 +1380,7 @@ a.wcard-link:hover{transform:translateY(-3px);box-shadow:0 6px 0 rgba(59,36,18,.
   
   .hero{grid-template-columns:1fr}
   .hero-cov{max-width:230px}
-  .pgrid{grid-template-columns:1fr}
+
   .controls{top:6px;right:6px;transform:scale(.86);transform-origin:top right}
 }
 
@@ -1684,7 +1666,7 @@ ${controls()}
 
 <div class="wrap">
   ${dash([
-    { label: '概览',   html: PIXEL.hero(DC.panorama(), social(), {articles:ARTICLES.length,collection:(DOUBAN.items || []).length + (GAMES.games || []).length + ALBUMS.items.length,photos:GALLERY.count || 0}, ic) + hang() },
+    { label: '概览',   html: PIXEL.hero(DC.panorama(), social(), {articles:ARTICLES.length,collection:(DOUBAN.items || []).length + (GAMES.games || []).length + ALBUMS.items.length,photos:GALLERY.count || 0}, ic, ARTICLES.slice(0,2)) + hang() },
     { label: '工坊',   html: repos() },
     { label: '文章',   html: timeline() },
     { label: '博物馆', html: museum() },
@@ -1695,8 +1677,7 @@ ${controls()}
     { label: '农场',   html: farmPanel() }
   ].filter(function(p){ return p.html; }), [
     statusPanel(),
-    panel('唱片机', ['star', 'flower', 'star', 'flower', 'star'], MUSIC.render() + DC.shelf(), 'music'),
-    moneyPanel()
+    panel('唱片机', ['star', 'flower', 'star', 'flower', 'star'], MUSIC.render(), 'music')
   ])}
 
   ${DC.posts()}

diff --git a/build/dash.js b/build/dash.js
@@ -13,13 +13,13 @@ function dash(panes, side) {
   const body = panes.map((p, i) =>
     `<div class="tabpane${i === 0 ? ' on' : ''}" id="dpane-${i}" role="tabpanel" aria-labelledby="dtab-${i}">${p.html}</div>`).join('');
   return `<div class="dash">
-  <div class="dash-main">
+  <div class="dash-head">
     <nav class="dash-tabs" role="tablist" aria-label="首页分区">${tabs}</nav>
     <div class="dash-track" aria-hidden="true">
       <svg class="dash-walk" viewBox="0 0 16 16"><use class="art" href="#px-girl"></use></svg>
     </div>
-    <main class="dash-body">${body}</main>
   </div>
+  <main class="dash-body">${body}</main>
   <aside class="dash-side">${side.join('')}</aside>
 </div>`;
 }
@@ -36,6 +36,7 @@ function dashScript() {
   var current = 0, position = 0, travel = 0;
   var map = {};
   panes.forEach(function(p, i){ map[p.querySelector('[id]').id] = i; });
+  map.ledger = map.farm;
 
   function destination(i){
     var a = track.getBoundingClientRect(), b = tabs[i].getBoundingClientRect();
